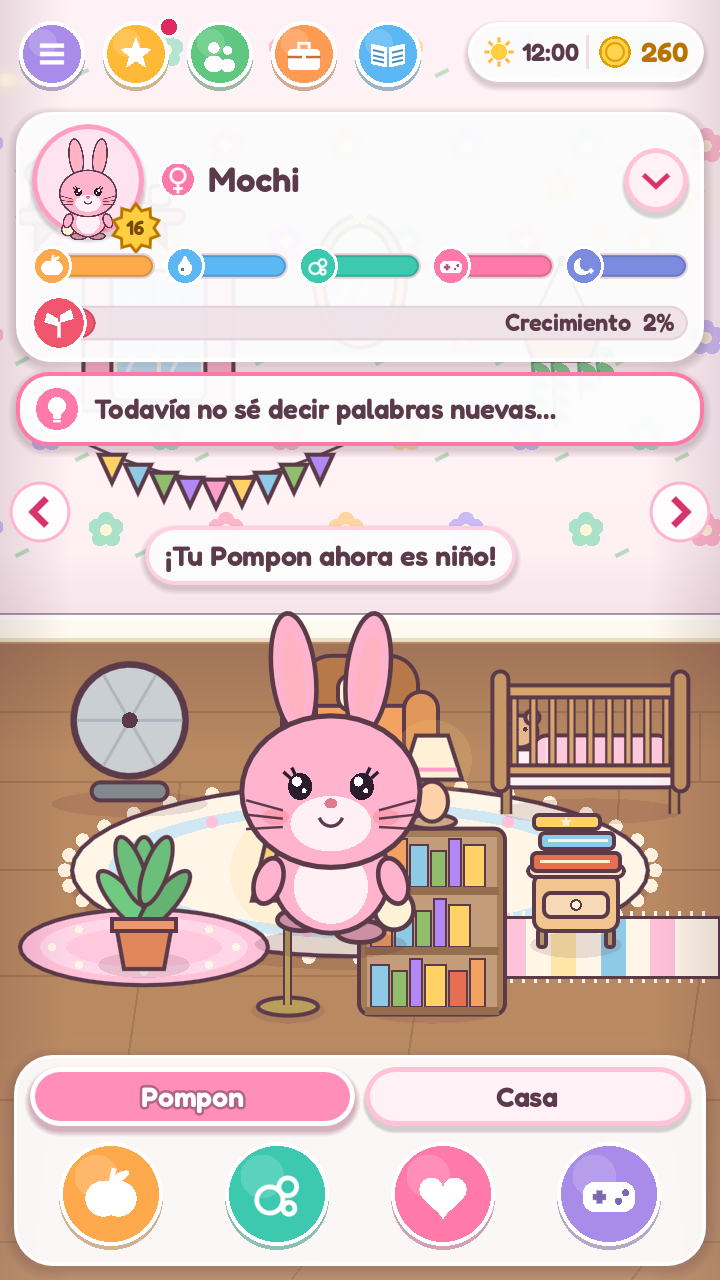
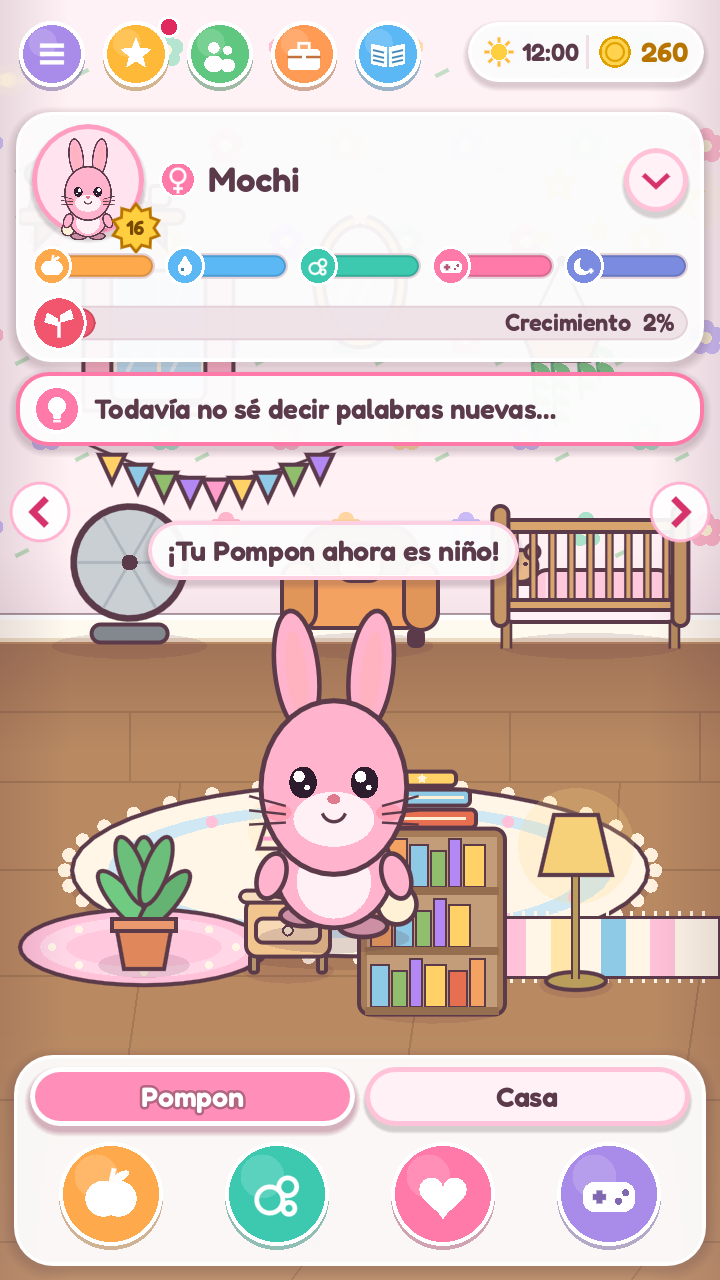
Muebles contra la pared: la fila de atras queda apoyada en la pared y se pega al arrastrar

Changed region(s): [[0.0917, 0.375, 0.9778, 0.8125], [0.0611, 0.125, 0.1833, 0.1875]]

diff --git a/HANDOFF.md b/HANDOFF.md
@@ -118,7 +118,7 @@ Cada uno suma su habilidad (`PomponSkills.GAME_SKILL`), cuenta como juego favori
 
 **Menos texto** (16/11/2026; capturas antes/después en `docs/capturas/menos_texto/`): la casa muestra **solo íconos** arriba (Menú, Misiones, Vecinos, Trabajo, Diario) y en la solapa Pompon (Comer, Beber, Bañar, Caricia, Juegos): `ActionButton.show_label = false` (el nombre sigue en `caption`, que usan el tutorial y los tests, y en `tooltip_text`). La tarjeta dice solo el nombre con el símbolo de nena/nene (especie, personalidad, código y "Día X de N" quedan en la ficha). El cuadrito de "qué hace" aparece 5 s cuando cambia (`ACTIVITY_SECONDS`) y nunca junto con un pensamiento; el globo de lo que dice se ajusta al texto y sale sobre su cabeza. Habitaciones cerradas: candado y el número de nivel. Comida: moneda + número, estrellita = nunca la probó, "?" = todavía duda (sin subtítulo). Tienda: sin etiqueta de categoría en cada tarjeta, relojito + hora para la tienda nueva, título solo con la etapa. Sacados: subtítulo del diario (y "Dijo/Pensó" en cada entrada), frase de minijuegos, "¡Hay vacantes!", frase de amigos de verdad, "La entrada trae pochoclos", "Ordenados" y "Termina el turno completo..." en la nota. Tutorial y avisos con frases más cortas. `test_locale._texts` también lee el `tooltip_text` de los botones de solo ícono. **Beber está dentro de Comer** (tarjeta "Agua" gratis, primera del menú, `home.gd` `_water_card` → `_on_action("Beber")`): abajo quedan 4 botones. **El Supermercado y el Museo no se muestran en el pueblo** hasta que abran (`town.gd` `_build`; el código de "abre pronto" sigue).
 
-**Más lugar para decorar** (16/11/2026): las habitaciones son de **3 pantallas** (`Rooms.WORLD_SCREENS`) y el piso empieza al 50 % del alto (`RoomView.FLOOR_START`, antes 60 %): entran muebles en dos filas y llegan hasta la barra de abajo (`BOTTOM_RESERVE` 250). Lo nuevo va primero contra la pared y las alfombras adelante (`GameState.FLOOR_SPOTS`, `place_item`). Partidas viejas y tarjetas de amigos con el juego viejo se acomodan solas con `Rooms.migrate_entry` (`room_layout` 3 = `Rooms.LAYOUT`; la tarjeta de amigos manda `"layout"`): lo decorado queda en el medio del cuarto y a la misma distancia de la pared. En Decorar, la habitación (‹ Sala ›) y el cartel de ayuda van arriba (`_edit_top`), el panel de abajo es más bajito y el cuarto sube 44 px (`EDIT_LIFT`) para ver el piso de adelante. Test: `test_room_space`.
+**Más lugar para decorar** (16/11/2026): las habitaciones son de **3 pantallas** (`Rooms.WORLD_SCREENS`) y el piso empieza al 50 % del alto (`RoomView.FLOOR_START`, antes 60 %): entran muebles en dos filas y llegan hasta la barra de abajo (`BOTTOM_RESERVE` 250). Lo nuevo va primero contra la pared y las alfombras adelante (`GameState.FLOOR_SPOTS`, `place_item`). Partidas viejas y tarjetas de amigos con el juego viejo se acomodan solas con `Rooms.migrate_entry` (`room_layout` 3 = `Rooms.LAYOUT`; la tarjeta de amigos manda `"layout"`): lo decorado queda en el medio del cuarto y a la misma distancia de la pared. En Decorar, la habitación (‹ Sala ›) y el cartel de ayuda van arriba (`_edit_top`), el panel de abajo es más bajito y el cuarto sube 44 px (`EDIT_LIFT`) para ver el piso de adelante. **Contra la pared**: lo más atrás que va un mueble de piso es con el pie apoyado justo sobre la línea del piso (`Rooms.wall_y`, `WALL_GAP` 12 px), así la biblioteca, la cuna o el armario quedan apoyados en la pared; al arrastrarlo a menos de 34 px de ahí se pega (`RoomView.WALL_SNAP`) y se ve una línea rosa al pie de la pared. Lo recién comprado va primero contra la pared, y en partidas viejas lo que estaba lo más atrás posible también. Test: `test_room_space`.
 
 **Finales de línea**: los `.gd` deben quedar en LF. Si se edita con Python en Windows, leer/escribir en binario: con CRLF los textos multilínea muestran una línea vacía de más.
 
